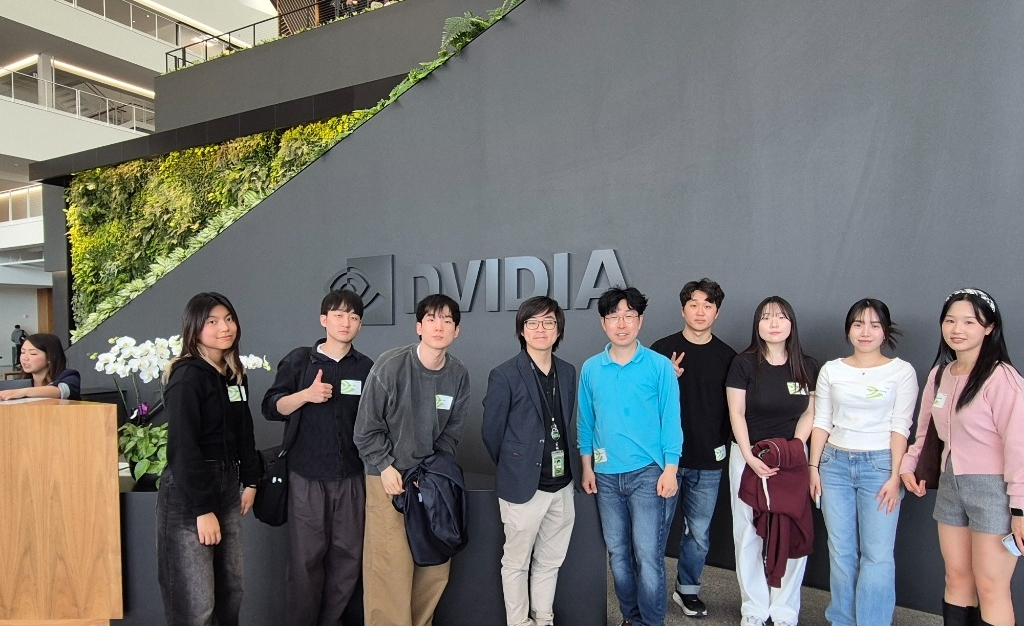
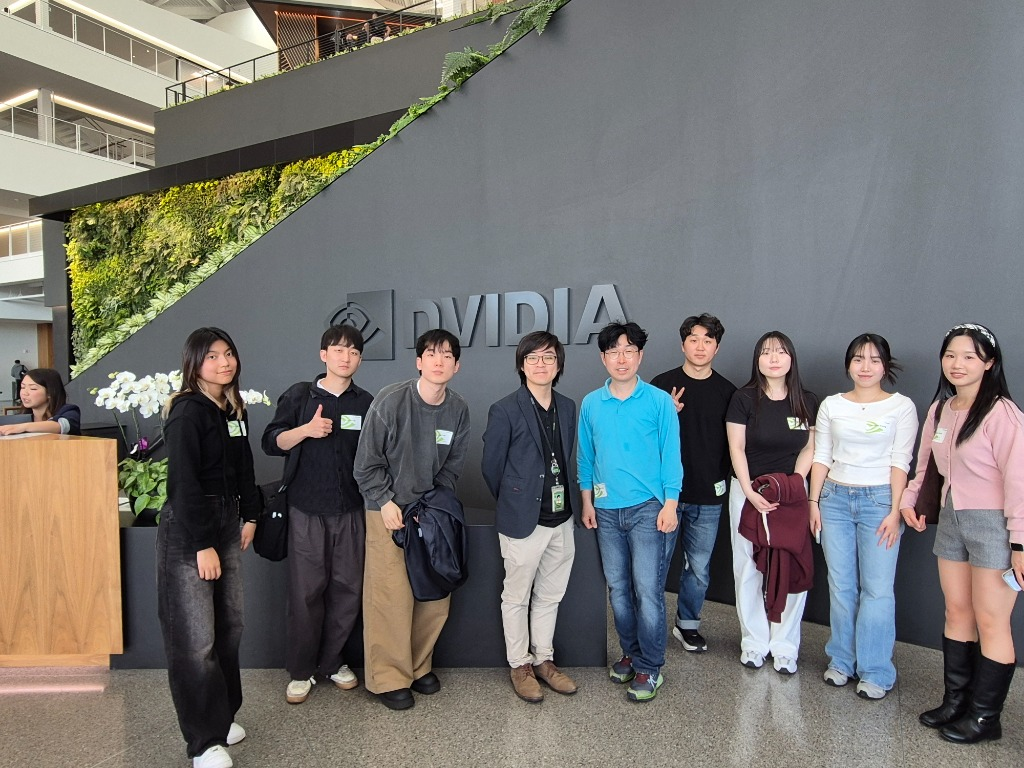
fix: restore full NVIDIA photo and apply contain background style with white border and dark text

diff --git a/index.html b/index.html
@@ -415,11 +415,15 @@
     }
 
     /* Hero Redesign Styles */
+    #hero {
+      background-color: #ffffff !important;
+      color: #1a1a2e !important;
+    }
     .hero-label {
       font-size: 0.85rem;
       letter-spacing: 0.2rem;
       font-weight: 700;
-      color: rgba(255, 255, 255, 0.9);
+      color: #555555 !important;
       margin-bottom: 1.5rem;
       text-transform: uppercase;
       display: block;
@@ -429,13 +433,17 @@
       font-weight: 800 !important;
       line-height: 1.1;
       margin-bottom: 2rem;
-      text-shadow: 2px 2px 4px rgba(0,0,0,0.3);
+      color: #111111 !important;
+      text-shadow: none !important;
     }
     .hero-lead {
       font-size: 1.1rem !important;
       line-height: 1.6 !important;
-      color: rgba(255, 255, 255, 0.95) !important;
+      color: #333333 !important;
       max-width: 800px;
+    }
+    .hero-lead strong {
+      color: #111111 !important;
     }
     @media (max-width: 768px) {
       .hero-title { font-size: 2.5rem !important; }
@@ -710,8 +718,8 @@
   
   
 
-  <section id="hero" class="home-section wg-hero dark bg-image parallax" 
-           style="background-image: linear-gradient(rgba(0, 0, 0, 0.5), rgba(0, 0, 0, 0.5)), url('/imsi/img/nvidia.jpg'); padding: 120px 0;">
+  <section id="hero" class="home-section wg-hero dark bg-image" 
+           style="background-image: linear-gradient(rgba(255, 255, 255, 0.82), rgba(255, 255, 255, 0.82)), url('/imsi/img/nvidia.jpg'); padding: 120px 0; background-size: contain !important; background-repeat: no-repeat !important; background-position: center !important; background-attachment: scroll !important;">
     <div class="container">
       
 
@@ -742,7 +750,7 @@ At <strong>IMSI (Imaging-driven Medical SuperIntelligence) Lab</strong>, we acce
         
       
     <p class="cta-btns">
-      <a href="/imsi/publication"  class="btn btn-light btn-lg" style="border-radius: 4px; padding: 12px 30px; font-weight: 600;"><i class="fa fa-book pr-2" aria-hidden="true"></i>Publications</a>
+      <a href="/imsi/publication"  class="btn btn-primary btn-lg" style="border-radius: 4px; padding: 12px 30px; font-weight: 600;"><i class="fa fa-book pr-2" aria-hidden="true"></i>Publications</a>
 
       
       

diff --git a/_site/index.html b/_site/index.html
@@ -415,11 +415,15 @@
     }
 
     /* Hero Redesign Styles */
+    #hero {
+      background-color: #ffffff !important;
+      color: #1a1a2e !important;
+    }
     .hero-label {
       font-size: 0.85rem;
       letter-spacing: 0.2rem;
       font-weight: 700;
-      color: rgba(255, 255, 255, 0.9);
+      color: #555555 !important;
       margin-bottom: 1.5rem;
       text-transform: uppercase;
       display: block;
@@ -429,13 +433,17 @@
       font-weight: 800 !important;
       line-height: 1.1;
       margin-bottom: 2rem;
-      text-shadow: 2px 2px 4px rgba(0,0,0,0.3);
+      color: #111111 !important;
+      text-shadow: none !important;
     }
     .hero-lead {
       font-size: 1.1rem !important;
       line-height: 1.6 !important;
-      color: rgba(255, 255, 255, 0.95) !important;
+      color: #333333 !important;
       max-width: 800px;
+    }
+    .hero-lead strong {
+      color: #111111 !important;
     }
     @media (max-width: 768px) {
       .hero-title { font-size: 2.5rem !important; }
@@ -742,7 +750,7 @@ At <strong>IMSI (Imaging-driven Medical SuperIntelligence) Lab</strong>, we acce
         
       
     <p class="cta-btns">
-      <a href="/imsi/publication"  class="btn btn-light btn-lg" style="border-radius: 4px; padding: 12px 30px; font-weight: 600;"><i class="fa fa-book pr-2" aria-hidden="true"></i>Publications</a>
+      <a href="/imsi/publication"  class="btn btn-primary btn-lg" style="border-radius: 4px; padding: 12px 30px; font-weight: 600;"><i class="fa fa-book pr-2" aria-hidden="true"></i>Publications</a>
 
       
       
